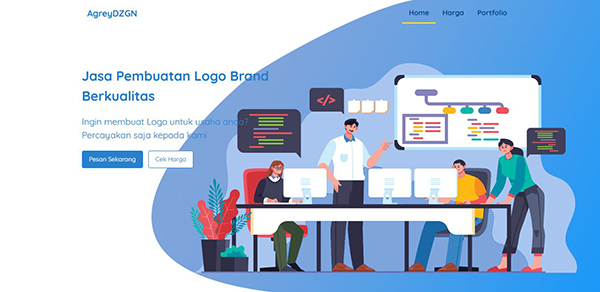
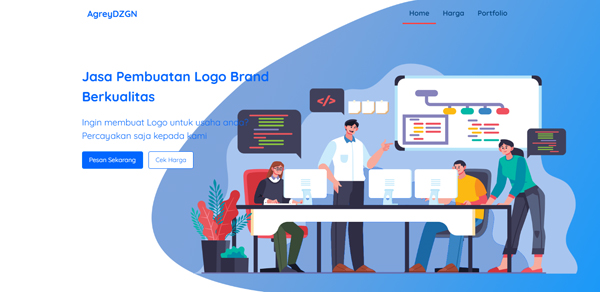
Update AgreyDZGN

diff --git a/p/agreydzgn/css/style.css b/p/agreydzgn/css/style.css
@@ -7,6 +7,7 @@ html {
 body {
     font-family: 'Quicksand', sans-serif !important;
     overflow-x: hidden;
+    color: #001534 !important;
 }
 
 * {
@@ -20,24 +21,29 @@ body {
 
 /* Navbar */
 
+.nav-scrolled {
+    background: white !important;
+    box-shadow: 0px 2px 10px rgba(0, 0, 0, 0.5);
+}
+
 .navbar {
     background: white;
 }
 
 .transparent {
-    background: transparent !important;
+    background: transparent;
 }
 
 .navbar .navbar-brand {
     padding: 0;
     font-weight: 700;
-    color: #2880CE !important;
+    color: #0166ff !important;
 }
 
 .navbar .navbar-nav .nav-item a {
     font-weight: 700;
     padding: 10px 15px;
-    color: #2880CE;
+    color: #0166ff;
     transition: all 0.2s;
 }
 
@@ -59,14 +65,14 @@ header .jumbotron {
 }
 
 .header-title {
-    color: #2880CE;
+    color: #0166ff;
     font-size: 30px;
     font-weight: 700;
     margin-bottom: 20px;
 }
 
 .header-text {
-    color: #2880CE;
+    color: #0166ff;
     font-size: 20px;
     font-weight: 400;
     margin-bottom: 20px;
@@ -74,7 +80,7 @@ header .jumbotron {
 
 .judul-section {
     text-transform: uppercase;
-    color: #2880CE;
+    color: #0166ff;
     text-align: center;
     font-size: 24px;
     font-weight: 700;
@@ -85,7 +91,7 @@ header .jumbotron {
     content: '';
     display: block;
     margin: auto;
-    border-bottom: 2px solid #FFD629;
+    border-bottom: 2px solid #ff4342;
     width: 120px;
     height: 20px;
 }
@@ -96,17 +102,17 @@ header .jumbotron {
 }
 
 .btn-primary {
-    background: #2880CE !important;
+    background: #0166ff !important;
     padding: 8px 15px !important;
     font-size: 14px !important;
 }
 
 .btn-secondary {
     background: white !important;
-    color: #2880CE !important;
+    color: #0166ff !important;
     padding: 8px 15px !important;
     font-size: 14px !important;
-    border: 1px solid #2880CE !important;
+    border: 1px solid #0166ff !important;
 }
 
 header img {
@@ -149,14 +155,14 @@ header img {
     display: block;
     font-weight: 700;
     text-transform: uppercase;
-    color: #D03801;
+    color: #002e74;
 }
 
 .proses .proses-nama {
     margin-bottom: 20px;
     font-weight: 600;
     display: block;
-    color: #2880CE;
+    color: #0166ff;
 }
 
 .proses .proses-baris {
@@ -166,7 +172,7 @@ header img {
 .proses span {
     border-radius: 12px;
     padding: 10px;
-    background: #2880CE;
+    background: #0166ff;
     margin: 30px 0px;
     display: block;
     text-align: center !important;
@@ -200,7 +206,7 @@ header img {
     padding-bottom: 120px;
     justify-content: center;
     align-items: center;
-    background: linear-gradient(180deg, #2880CE, #00427c);
+    background: linear-gradient(180deg, #0166ff, #00427c);
 }
 
 /* Harga */
@@ -215,14 +221,14 @@ header img {
     color: white;
     margin: 15px 0px;
     padding: 50px;
-    background: #2880CE;
+    background: #0166ff;
     transition: all 0.2s ease;
 }
 
 .harga-menu:hover {
-    color: #FFD629;
+    color: #ff4342;
     text-decoration: none;
-    background: linear-gradient(180deg, #2880CE, #00427c);
+    background: linear-gradient(180deg, #0166ff, #00427c);
 }
 
 /* Modal */
@@ -244,7 +250,7 @@ header img {
     display: inline-block;
     padding: 5px 10px;
     color: #002342;
-    background: #2880CE;
+    background: #0166ff;
     list-style: none;
     font-weight: bold;
 }
@@ -258,7 +264,7 @@ header img {
 .portfolio-menu {
     margin: 5px;
     margin-bottom: 20px;
-    background: #2880CE;
+    background: #0166ff;
 }
 
 
@@ -271,12 +277,13 @@ header img {
 
 footer {
     color: white;
-    background: #2880CE;
+    background: #0166ff;
     padding: 30px 0px 10px 0px;
 }
 
 footer p span {
     font-weight: 700;
+    font-size: 24px;
 }
 
 footer ul li {
@@ -290,11 +297,11 @@ footer ul li a {
 }
 
 footer ul li a:hover {
-    color: #FFD629;
+    color: #ff4342;
     text-decoration: none;
     padding-left: 10px;
     font-weight: 700;
-    border-left: 2px solid #FFD629;
+    border-left: 2px solid #ff4342;
     margin-left: 10px;
 }
 
@@ -328,12 +335,12 @@ footer ul li a:hover {
     }
 
     .navbar .navbar-nav .nav-item a:hover {
-        color: #ffd629;
+        color: #ff4342;
         font-weight: 700;
     }
 
     .link-aktif {
-        color: #FFD629;
+        color: #ff4342;
         font-weight: 700;
     }
 }
@@ -342,10 +349,10 @@ footer ul li a:hover {
 
 @media (min-width:768px) {
     .navbar .navbar-nav .nav-item a:hover {
-        color: #FFD629;
+        color: #ff4342;
     }
 
     .link-aktif {
-        border-bottom: 3px solid #FFD629;
+        border-bottom: 3px solid #ff4342;
     }
 }

diff --git a/p/agreydzgn/js/script.js b/p/agreydzgn/js/script.js
@@ -4,3 +4,27 @@ $(document).ready(function () {
         duration: 1000,
     });
 });
+
+const navbar = document.querySelector(".navbar");
+const sectionOne = document.querySelector(".jumbotron");
+
+const sectionOneOptions = {};
+
+const sectionOneObserver = new IntersectionObserver(function (
+        entries,
+        sectionOneObserver
+    ) {
+        entries.forEach(entry => {
+            if (entry.isIntersecting) {
+                navbar.classList.add('transparent');
+                navbar.classList.remove('shadow');
+            } else {
+                navbar.classList.remove('transparent');
+                navbar.classList.add('shadow');
+            }
+        });
+    },
+    sectionOneOptions);
+
+
+sectionOneObserver.observe(sectionOne);

diff --git a/p/agreydzgn/index.html b/p/agreydzgn/index.html
@@ -22,7 +22,7 @@
 
 <body id="page-top">
 
-    <nav class="navbar navbar-expand-lg navbar-light fixed-top transparent">
+    <nav class="navbar navbar-expand-lg navbar-light fixed-top">
         <div class="container">
             <a class="navbar-brand js-scroll-trigger" href="#page-top">AgreyDZGN</a>
             <button class="navbar-toggler" type="button" data-toggle="collapse" data-target="#navbarNav"
